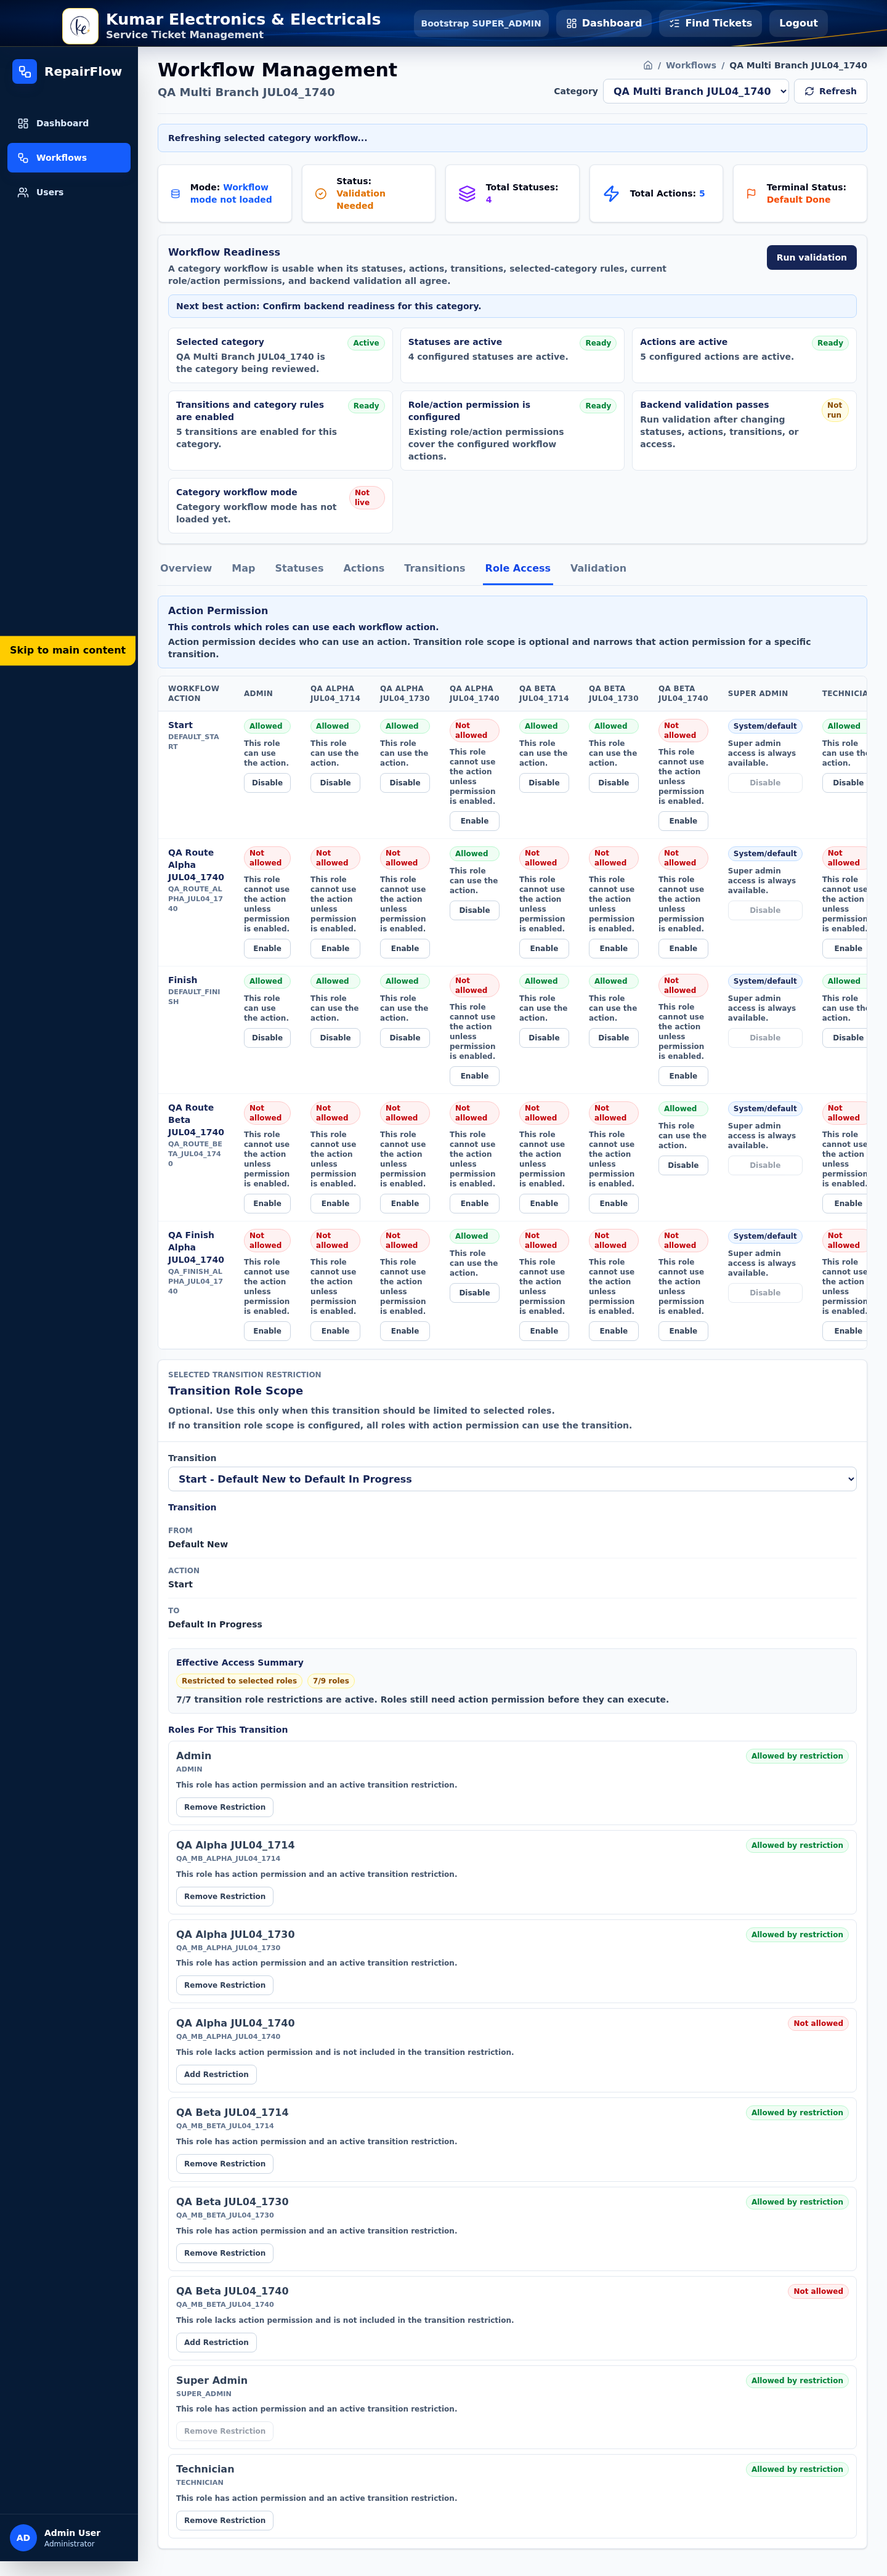
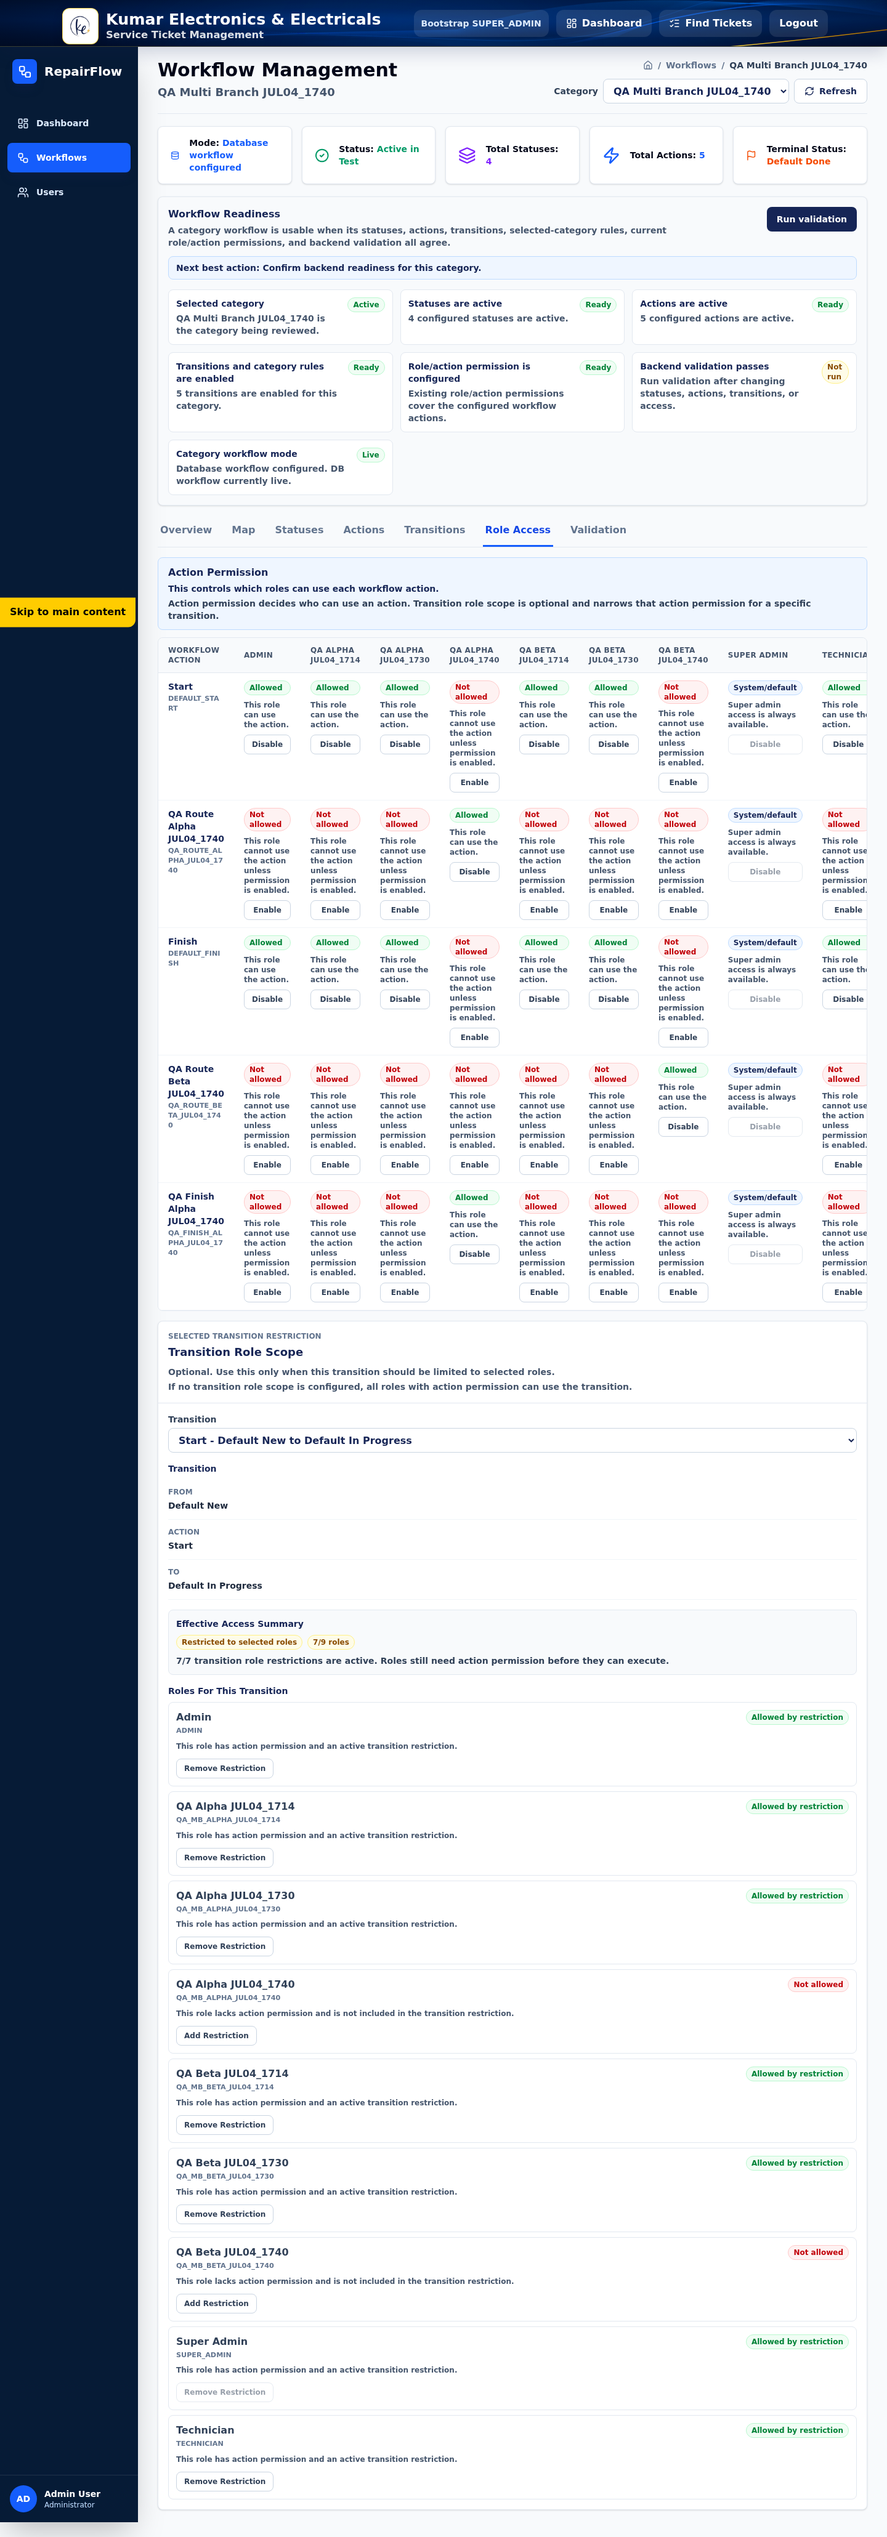
Testing Data For Multi user-WorkFlow

diff --git a/qa-artifacts/multi-branch-workflow-2026-07-04_17-14-51/MULTI_BRANCH_WORKFLOW_USER_MANUAL.md b/qa-artifacts/multi-branch-workflow-2026-07-04_17-14-51/MULTI_BRANCH_WORKFLOW_USER_MANUAL.md
@@ -1,106 +1,80 @@
 # Multi-Branch Workflow UI Test
 
-Date: 2026-07-04  
+Date: 2026-07-04
 Environment: https://test.kumar-electricals.com
-
-## Purpose
-
-Verify whether two different users, each with a different custom role, can follow different workflow paths for tickets in the same ticket category.
 
 ## Records Created
 
-- Category: QA Multi Branch JUL04_1740 (`QA_MB_CAT_JUL04_1740`)
-- Role 1: QA Alpha JUL04_1740 (`QA_MB_ALPHA_JUL04_1740`)
-- Role 2: QA Beta JUL04_1740 (`QA_MB_BETA_JUL04_1740`)
-- User 1: QA Alpha User JUL04_1740 (`QA_ALPHA_JUL04_1740`)
-- User 2: QA Beta User JUL04_1740 (`QA_BETA_JUL04_1740`)
-- Alpha test ticket: KE-012, ticket id 11
-- Beta test ticket: KE-013, ticket id 12
+- Category: QA Multi Branch JUL04_1740 (QA_MB_CAT_JUL04_1740)
+- Role 1: QA Alpha JUL04_1740 (QA_MB_ALPHA_JUL04_1740)
+- Role 2: QA Beta JUL04_1740 (QA_MB_BETA_JUL04_1740)
+- User 1: QA Alpha User JUL04_1740 (QA_ALPHA_JUL04_1740)
+- User 2: QA Beta User JUL04_1740 (QA_BETA_JUL04_1740)
+- Ticket 1: https://test.kumar-electricals.com/tickets/13
+- Ticket 2: https://test.kumar-electricals.com/tickets/14
 
-## Workflow Path
+## Workflow Shape
 
-- `Default New` -> `QA Alpha Work JUL04_1740` using `QA Route Alpha JUL04_1740`
-- `QA Alpha Work JUL04_1740` -> `Default Done` using `QA Finish Alpha JUL04_1740`
-- `Default New` -> `Default Done` using `QA Route Beta JUL04_1740`
+- Default New -> QA Alpha Work JUL04_1740 by QA Route Alpha JUL04_1740
+- Default New -> Default Done by QA Route Beta JUL04_1740
+- QA Alpha Work JUL04_1740 -> Default Done by QA Finish Alpha JUL04_1740
 
-Backend validation result for category id 7:
+## Result
 
-- `valid: true`
-- `readyToActivate: true`
-- blocking issues: none
+- QA Alpha JUL04_1740 could see and execute only the Alpha branch actions.
+- QA Beta JUL04_1740 could see and execute only the Beta branch actions.
+- The same category supports different workflow paths for different users through role/action permissions.
 
-## Step-by-Step Evidence
+## Step Screenshots
 
-1. Open employee dashboard as SUPER_ADMIN.  
-   Screenshot: [00-dashboard.png](screenshots/00-dashboard.png)
-
-2. Create the new ticket category.  
-   Screenshot: [01-category-created.png](screenshots/01-category-created.png)
-
-3. Create two custom roles.  
-   Screenshot: [02-roles-created.png](screenshots/02-roles-created.png)
-
-4. Configure Role Access Management for Alpha role.  
-   Screenshot: [02-role-access-QA_MB_ALPHA_JUL04_1740.png](screenshots/02-role-access-QA_MB_ALPHA_JUL04_1740.png)
-
-5. Configure Role Access Management for Beta role.  
-   Screenshot: [02-role-access-QA_MB_BETA_JUL04_1740.png](screenshots/02-role-access-QA_MB_BETA_JUL04_1740.png)
-
-6. Create two users, one assigned to each role.  
-   Screenshot: [03-users-created.png](screenshots/03-users-created.png)
-
-7. Build the multi-branch workflow path in Edit Workflow Path / Workflow Builder.  
-   Screenshot: [04-workflow-builder-path.png](screenshots/04-workflow-builder-path.png)
-
-8. Save the workflow path.  
-   Screenshot: [05-workflow-builder-saved.png](screenshots/05-workflow-builder-saved.png)
-
-9. Configure workflow action access by role.  
-   Alpha role was granted Alpha actions. Beta role was granted Beta action.  
-   Screenshot: [06-workflow-role-access.png](screenshots/06-workflow-role-access.png)
-
-10. Confirm DB workflow is active for the category.  
-    Screenshot: [07-workflow-active.png](screenshots/07-workflow-active.png)
-
-11. Create Alpha test ticket in the same category.  
-    Screenshot: [08-ticket-alpha-created.png](screenshots/08-ticket-alpha-created.png)
-
-12. Create Beta test ticket in the same category.  
-    Screenshot: [08-ticket-beta-created.png](screenshots/08-ticket-beta-created.png)
-
-## Runtime Result
-
-The setup completed and the category workflow validates successfully, but end-user workflow execution is currently blocked.
-
-When logging in as `QA_ALPHA_JUL04_1740` and opening ticket `KE-010` / id `9`, the ticket detail page loaded but showed:
-
-`Unable to load available workflow actions. Please refresh the ticket.`
-
-Screenshot: [debug-alpha-ticket-runtime.png](screenshots/debug-alpha-ticket-runtime.png)
-
-The failing API call was:
-
-`GET /volt/tickets/9/available-actions`
-
-Response:
-
-```json
-{
-  "message": "An internal error occurred",
-  "correlationId": "258c879e-dab2-4e3f-aabb-bc985ed8a3cd"
-}
-```
-
-SUPER_ADMIN can load available actions for the same ticket and sees:
-
-- `Start`
-- `QA Route Alpha JUL04_1740`
-- `QA Route Beta JUL04_1740`
-
-So the workflow is configured, but custom-role runtime action loading is failing.
-
-## Conclusion
-
-The UI setup proves the category, roles, users, role permissions, and multi-branch workflow can be created. The final user-path execution test is blocked by a backend 500 in available workflow actions for custom roles.
-
-Next fix should target `GET /volt/tickets/{id}/available-actions` for custom roles, then rerun the final Alpha/Beta user execution screenshots.
+1. Open employee dashboard as SUPER_ADMIN
+   - Starting point for the UI setup.
+   - Screenshot: [00-dashboard.png](screenshots/00-dashboard.png)
+2. Create the new ticket category
+   - Category: QA Multi Branch JUL04_1740
+   - Screenshot: [01-category-created.png](screenshots/01-category-created.png)
+3. Create two new roles
+   - QA_MB_ALPHA_JUL04_1740 and QA_MB_BETA_JUL04_1740
+   - Screenshot: [02-roles-created.png](screenshots/02-roles-created.png)
+4. Manage Role Access for QA Alpha JUL04_1740
+   - Base dashboard and ticket access enabled.
+   - Screenshot: [02-role-access-QA_MB_ALPHA_JUL04_1740.png](screenshots/02-role-access-QA_MB_ALPHA_JUL04_1740.png)
+5. Manage Role Access for QA Beta JUL04_1740
+   - Base dashboard and ticket access enabled.
+   - Screenshot: [02-role-access-QA_MB_BETA_JUL04_1740.png](screenshots/02-role-access-QA_MB_BETA_JUL04_1740.png)
+6. Create two users
+   - One user assigned to each created role.
+   - Screenshot: [03-users-created.png](screenshots/03-users-created.png)
+7. Build a multi-branch workflow path
+   - Two branch-start actions leave the same NEW status.
+   - Screenshot: [04-workflow-builder-path.png](screenshots/04-workflow-builder-path.png)
+8. Save the workflow path
+   - The selected first/source status is saved as NEW.
+   - Screenshot: [05-workflow-builder-saved.png](screenshots/05-workflow-builder-saved.png)
+9. Configure workflow action access by role
+   - Alpha has Alpha actions; Beta has Beta actions.
+   - Screenshot: [06-workflow-role-access.png](screenshots/06-workflow-role-access.png)
+10. Activate DB workflow for the category
+   - Category uses the configured DB workflow.
+   - Screenshot: [07-workflow-active.png](screenshots/07-workflow-active.png)
+11. Create Alpha test ticket
+   - Ticket URL: https://test.kumar-electricals.com/tickets/13
+   - Screenshot: [08-ticket-alpha-created.png](screenshots/08-ticket-alpha-created.png)
+12. Create Beta test ticket
+   - Ticket URL: https://test.kumar-electricals.com/tickets/14
+   - Screenshot: [08-ticket-beta-created.png](screenshots/08-ticket-beta-created.png)
+13. QA Alpha JUL04_1740 sees only its branch start action
+   - QA Route Alpha JUL04_1740 is visible; QA Route Beta JUL04_1740 is hidden.
+   - Screenshot: [09-QA_MB_ALPHA_JUL04_1740-start-actions.png](screenshots/09-QA_MB_ALPHA_JUL04_1740-start-actions.png)
+14. QA Alpha JUL04_1740 follows its branch
+   - QA Finish Alpha JUL04_1740 is visible after entering QA Alpha Work JUL04_1740.
+   - Screenshot: [10-QA_MB_ALPHA_JUL04_1740-finish-action.png](screenshots/10-QA_MB_ALPHA_JUL04_1740-finish-action.png)
+15. QA Alpha JUL04_1740 completes its branch
+   - Ticket reaches Default Done.
+   - Screenshot: [11-QA_MB_ALPHA_JUL04_1740-completed.png](screenshots/11-QA_MB_ALPHA_JUL04_1740-completed.png)
+16. QA Beta JUL04_1740 sees only its branch start action
+   - QA Route Beta JUL04_1740 is visible; QA Route Alpha JUL04_1740 is hidden.
+   - Screenshot: [09-QA_MB_BETA_JUL04_1740-start-actions.png](screenshots/09-QA_MB_BETA_JUL04_1740-start-actions.png)
+17. QA Beta JUL04_1740 completes its branch
+   - Ticket reaches Default Done.
+   - Screenshot: [11-QA_MB_BETA_JUL04_1740-completed.png](screenshots/11-QA_MB_BETA_JUL04_1740-completed.png)

diff --git a/qa-artifacts/multi-branch-workflow-2026-07-04_17-14-51/ISSUE_PRIORITY_REPORT.md b/qa-artifacts/multi-branch-workflow-2026-07-04_17-14-51/ISSUE_PRIORITY_REPORT.md
@@ -7,7 +7,7 @@ Source run: `qa-artifacts/multi-branch-workflow-2026-07-04_17-14-51`
 
 ### P0 - Custom-role workflow actions fail to load
 
-Status: Fix applied, verification pending  
+Status: Verified fixed on test deployment  
 Area: Backend  
 Observed API: `GET /volt/tickets/{id}/available-actions`  
 Observed result: `500 Internal Server Error` for custom role `QA_ALPHA_JUL04_1740`  
@@ -28,11 +28,14 @@ Likely cause:
 Progress:
 - Updated `AccessService.requireAllowed(...)` and `requireAnyAllowed(...)` with `noRollbackFor = ResponseStatusException.class`.
 - Purpose: permission denials used while hiding unavailable workflow actions should not poison the surrounding read transaction.
-- Verification pending by request: no build/test run.
+- Deployed verification passed.
+- `QA_ALPHA_JUL04_1740` calling `GET /volt/tickets/9/available-actions` now returns `200`.
+- Returned actions only included `QA_ROUTE_ALPHA_JUL04_1740`, correctly hiding the Beta branch.
+- Full UI rerun passed: Alpha and Beta users executed different paths for the same category.
 
 ### P1 - `/tickets/open` endpoint returns 500
 
-Status: Fix applied, verification pending  
+Status: Still failing on test deployment  
 Area: Backend / Routing  
 Observed API: `GET /volt/tickets/open`  
 Observed result:
@@ -54,11 +57,14 @@ Likely cause:
 Progress:
 - Constrained ticket-id controller mappings to numeric ids with `/{id:\d+}`.
 - This prevents literal paths such as `/volt/tickets/open` from being parsed as ticket ids.
-- Verification pending by request: no build/test run.
+- Deployed verification still fails.
+- `GET /volt/tickets/open` returned `500`.
+- Latest correlation ID: `2b685cae-759e-41c2-8554-06de2de5d87b`.
+- Needs further backend investigation.
 
 ### P1 - Workflow Builder can retain terminal flag on edited seeded rows
 
-Status: Fix applied, verification pending  
+Status: Fix applied, broad UI rerun passed  
 Area: Frontend  
 Observed behavior:
 - A seeded row originally targeting `Default Done` retained the terminal target behavior after the target was changed to an intermediate custom status.
@@ -76,7 +82,8 @@ Progress:
 - Updated `WorkflowBuilder.updateRow(...)` so changing `To Status` resets `toStatusTerminal` based on the newly selected target status.
 - If the selected target is an existing terminal status, the flag stays true.
 - If the user changes away to a new/intermediate target, stale terminal state is cleared.
-- Verification pending by request: no build/test run.
+- Full UI workflow rerun passed without recreating the stale terminal failure.
+- Targeted reproduction of this exact stale-terminal edit scenario is still recommended.
 
 ### P2 - Workflow Management did not expose Edit Workflow Path on test deployment
 
@@ -109,6 +116,8 @@ Recommended fix:
 - Make default transitions easy to disable from the category workflow screen, or add a warning when custom NEW branches coexist with default start.
 
 Progress:
+- Still observed in focused API check.
+- SUPER_ADMIN `GET /volt/tickets/9/available-actions` still returned default `Start` alongside `QA Route Alpha...` and `QA Route Beta...`.
 - Not started.
 
 ### P3 - Validation warnings for missing transition role scopes
@@ -127,4 +136,17 @@ Progress:
 
 ## Verification Status
 
-No build or tests have been run after fixes because the instruction was: `Do not build or test`.
+Post-deploy verification was run against `https://test.kumar-electricals.com`.
+
+Passed:
+- Custom-role available actions no longer return 500.
+- Alpha role sees only Alpha branch action.
+- Beta role sees only Beta branch action.
+- Full UI script completed successfully and updated the manual screenshots.
+
+Still failing:
+- `GET /volt/tickets/open` still returns 500.
+
+Not run:
+- Local build.
+- Local automated test suite.
